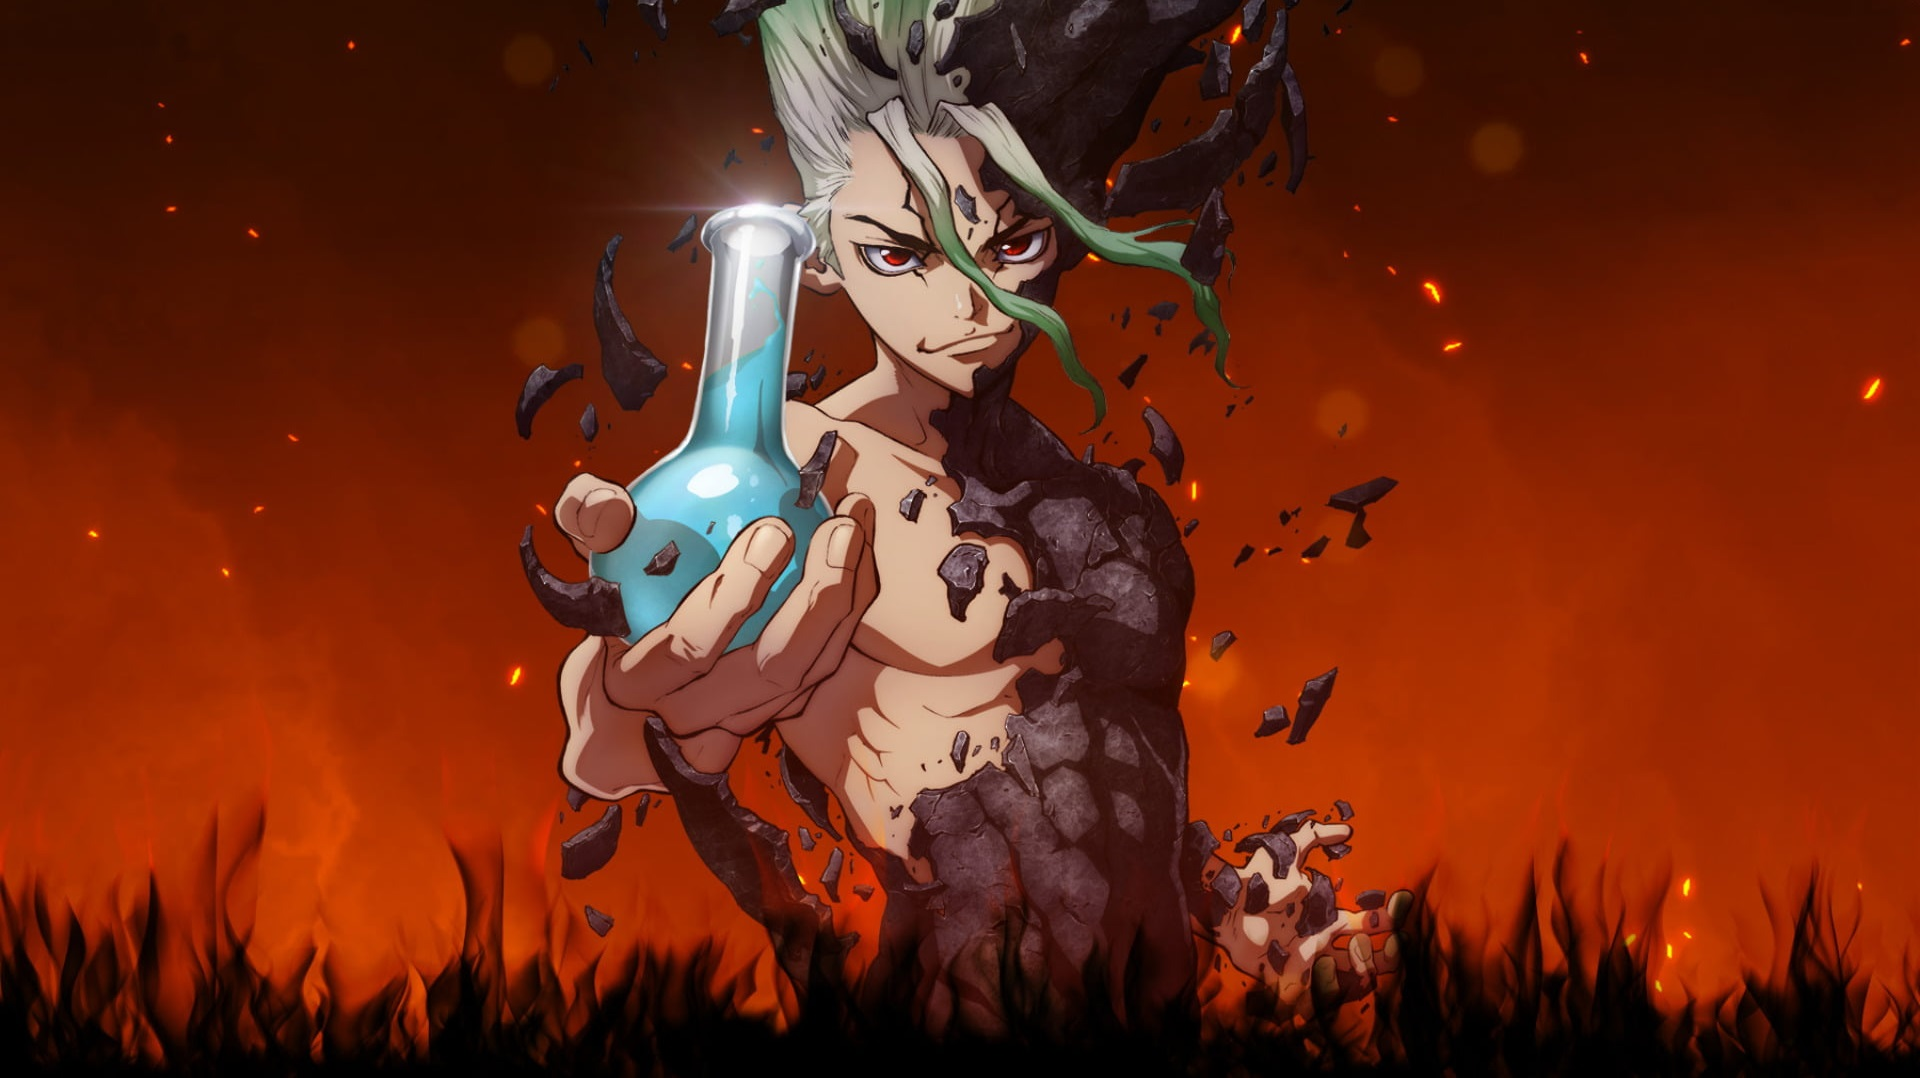
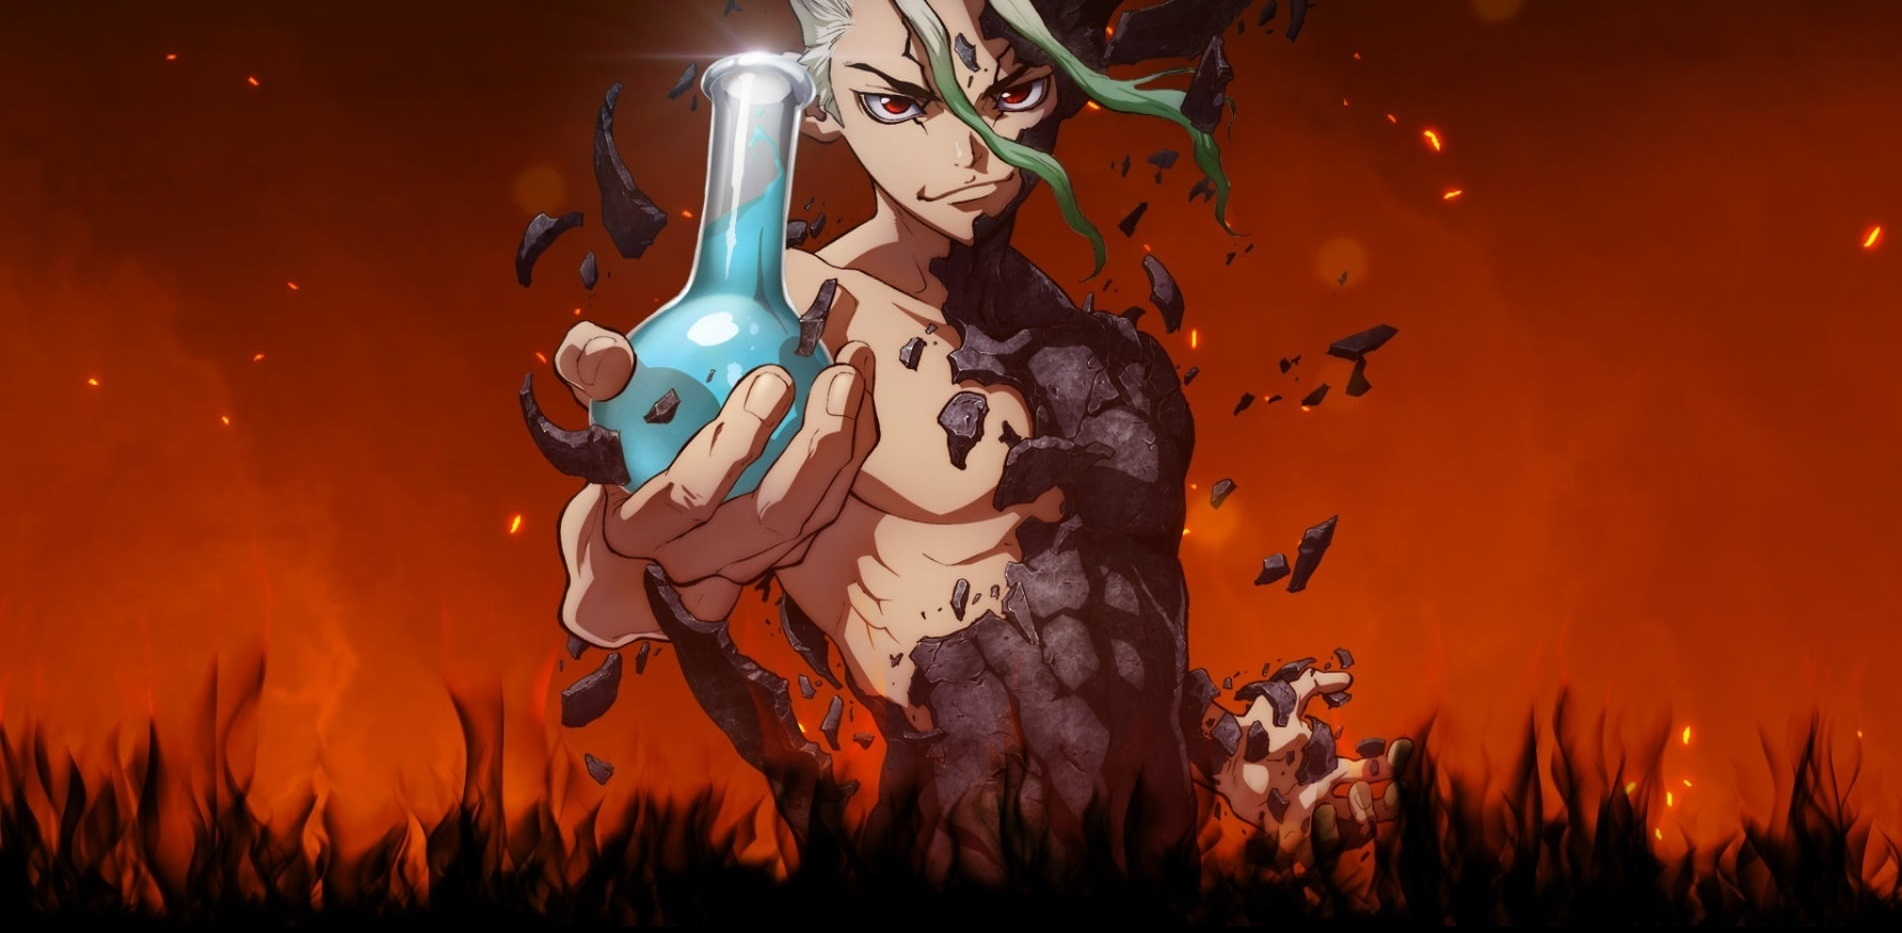
new1

diff --git a/style.css b/style.css
@@ -13,7 +13,8 @@ body{
   position: relative;
   background-repeat: no-repeat;
   background-size: contain;
-  background-color: rgb(0, 0, 0); 
+  background-color: rgb(0, 0, 0);
+  background-position: center top; 
 }
 
 

diff --git a/style1.css b/style1.css
@@ -13,7 +13,8 @@ body{
   position: relative;
   background-repeat: no-repeat;
   background-size: contain;
-  background-color: rgb(0, 0, 0); 
+  background-color: rgb(0, 0, 0);
+  background-position: center top;
 }
 
 

diff --git a/style2.css b/style2.css
@@ -14,6 +14,7 @@ body{
   background-repeat: no-repeat;
   background-size: contain;
   background-color: rgb(0, 0, 0); 
+  background-position: center top;
 }
 
 

diff --git a/style3.css b/style3.css
@@ -14,6 +14,7 @@ body{
   background-repeat: no-repeat;
   background-size: contain;
   background-color: rgb(0, 0, 0); 
+  background-position: center top;
 }
 
 

diff --git a/style4.css b/style4.css
@@ -14,6 +14,7 @@ body{
   background-repeat: no-repeat;
   background-size: contain;
   background-color: rgb(0, 0, 0); 
+  background-position: center top;
 }
 
 

diff --git a/style5.css b/style5.css
@@ -14,6 +14,7 @@ body{
   background-repeat: no-repeat;
   background-size: contain;
   background-color: rgb(0, 0, 0); 
+  background-position: center top;
 }
 
 

diff --git a/style6.css b/style6.css
@@ -14,6 +14,7 @@ body{
   background-repeat: no-repeat;
   background-size: contain;
   background-color: rgb(0, 0, 0); 
+  background-position: center top;
 }
 
 

diff --git a/style7.css b/style7.css
@@ -14,6 +14,7 @@ body{
   background-repeat: no-repeat;
   background-size: contain;
   background-color: rgb(0, 0, 0); 
+  background-position: center top;
 }
 
 
